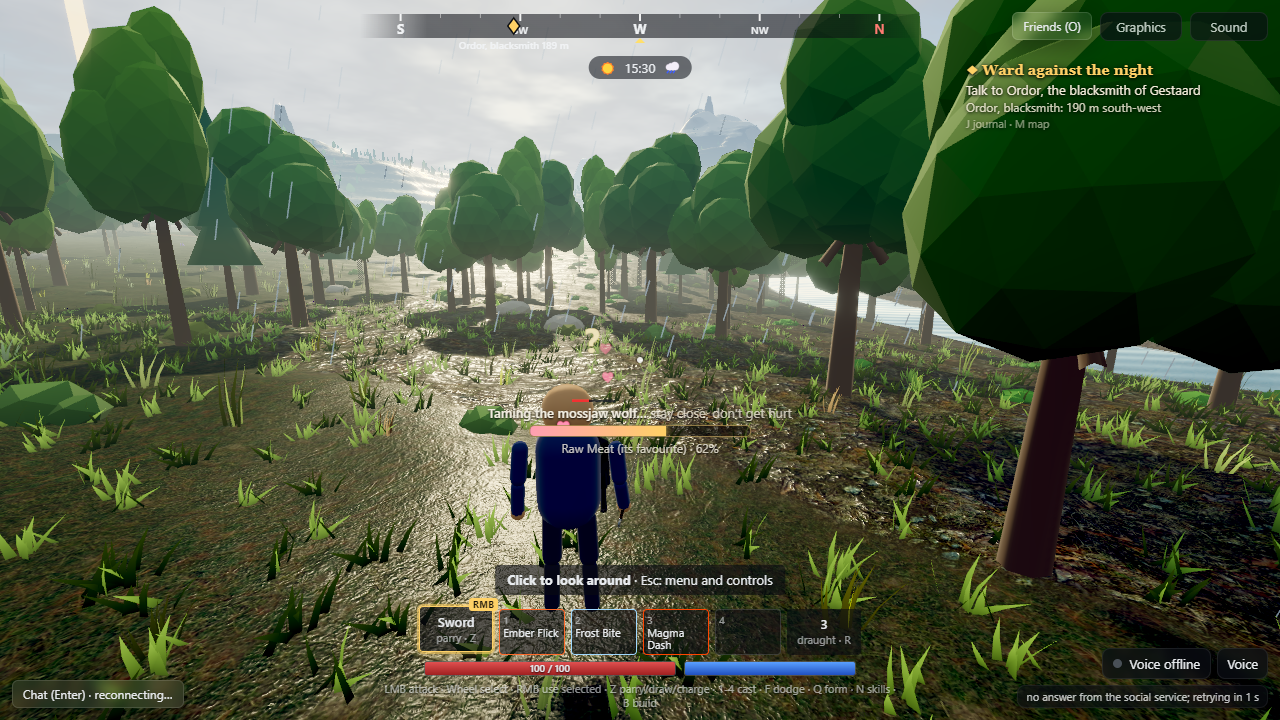
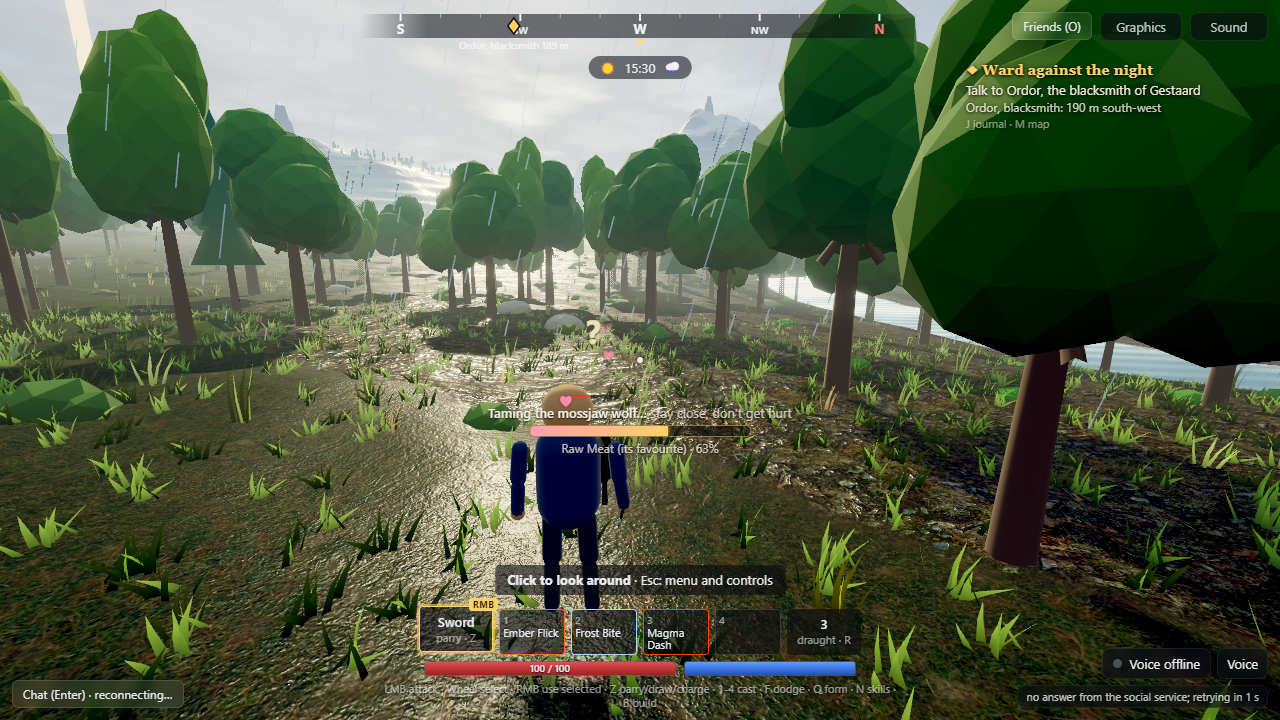
Pets: STATUS 'Playtest 2: pets', CR 029, READMEs, Postgres store test, bench evidence, final evidence shots

diff --git a/client/src/ui/pets/dev/pet-shots.ts b/client/src/ui/pets/dev/pet-shots.ts
@@ -245,7 +245,7 @@ async function main(): Promise<void> {
     {
       const at0 = await me();
       const pd = (await drawn()).find((d) => d.kind === 7);
-      if (pd) await page.evaluate((y) => (window as unknown as W).__lodestone.setLook(y, -0.3), lookAt(at0, pd) - 0.25);
+      if (pd) await page.evaluate((y) => (window as unknown as W).__lodestone.setLook(y, -0.3), lookAt(at0, pd) - 0.5);
     }
     await sleep(120);
     await page.screenshot({ path: shot('tamed') });

diff --git a/server/zone/internal/game/pets_store_test.go b/server/zone/internal/game/pets_store_test.go
@@ -1,0 +1,51 @@
+package game
+
+// character_pets on Postgres (migration 0029; scratch database from dbtest,
+// skipped without the local infra unless LODESTONE_REQUIRE_INFRA=1): round
+// trip, the epoch fence (an older owner's late save never wins), a missing
+// character row.
+
+import (
+	"context"
+	"errors"
+	"testing"
+
+	"lodestone/server/zone/internal/content"
+)
+
+func TestPGPetStoreRoundTripAndFence(t *testing.T) {
+	_, store, _, char := itemsDB(t)
+	ctx := context.Background()
+	if _, found, err := store.LoadPets(ctx, char); err != nil || found {
+		t.Fatalf("empty: found %v err %v", found, err)
+	}
+	st := &content.PetState{V: 1}
+	st.Add(content.PetRec{Species: "wolf", Name: "Fang", Level: 4, HP: 0.7, Element: -1})
+	st.Rolls = 3
+	if err := store.SavePets(ctx, char, st.JSON(), 5); err != nil {
+		t.Fatal(err)
+	}
+	old := &content.PetState{V: 1} // a previous owner's late, older save
+	if err := store.SavePets(ctx, char, old.JSON(), 4); err != nil {
+		t.Fatal(err)
+	}
+	b, found, err := store.LoadPets(ctx, char)
+	if err != nil || !found {
+		t.Fatal(err)
+	}
+	got := content.LoadPets(b)
+	if len(got.Pets) != 1 || got.Pets[0].Name != "Fang" || got.Pets[0].Level != 4 || got.Rolls != 3 || got.Active != 1 {
+		t.Fatalf("fence lost the newer save: %s", b)
+	}
+	st.Pets[0].Name = "Fang II"
+	if err := store.SavePets(ctx, char, st.JSON(), 0); err != nil { // unfenced single zone
+		t.Fatal(err)
+	}
+	b, _, _ = store.LoadPets(ctx, char)
+	if content.LoadPets(b).Pets[0].Name != "Fang II" {
+		t.Fatalf("epoch 0 save %s", b)
+	}
+	if err := store.SavePets(ctx, "00000000-0000-0000-0000-000000000001", st.JSON(), 0); !errors.Is(err, ErrNoRow) {
+		t.Fatalf("missing row: %v", err)
+	}
+}

diff --git a/docs/cr/029-pets.md b/docs/cr/029-pets.md
@@ -1,0 +1,73 @@
+# CR 029: taming and pet companions (playtest 2)
+
+Nicole, overnight: "all sorts of good shit" (Valheim and Breath of the Wild). This CR adds Valheim-style taming (weaken a creature, feed it its favourite food while it is calm) and pets that follow you, fight beside you, level up, have one ability each, wait in a stable, and are knocked out instead of killed. Data: `contracts/content.yaml` section `taming` (+ four feats, emote 25) → `npm run gen` → `server/pkg/contentdefs` (`Taming`) and the client's `CONTENT.taming`.
+
+## Tameable creatures
+
+Nine species, one per combat.yaml creature (the generator refuses demons and bosses, unknown foods and non-food items):
+
+| Species | Favourite food (others) | Meter | Chance | Health / bite (lv 1) | Ability |
+| --- | --- | --- | --- | --- | --- |
+| Dewdrop Slime | Heartleaf (apple, glowmoss) | 3 s | 95 % | 150 / 6 | **Soothing Ooze** (heal: you below 70 %: 12 % of your health, and itself) |
+| Mossback Slime | Glowmoss (heartleaf) | 3.5 s | 90 % | 170 / 6 | **Mossbloom** (heal: you and your party near you below 80 %) |
+| Thornback boar | Apple (berry tart, emberroot) | 5 s | 80 % | 170 / 10 | **Tusk Charge** (a rush at a foe 4-12 m away: 2x and a stun) |
+| Mossjaw wolf | Raw meat (grilled meat) | 6 s | 75 % | 130 / 11 | **Rallying Howl** (buff: your damage +15 % for 8 s when a fight starts) |
+| Crag ram | Frostcap (heartleaf, bread) | 5 s | 80 % | 180 / 10 | **Headlong** (1.8x and a knockback) |
+| Rime stalker | Frostgill char (speckled trout, raw meat) | 7 s | 65 % | 140 / 10 | **Frost Breath** (1.4x ice on the target and everything within 3 m, slowed) |
+| Bog lurker | Mudback carp (bog pike, reed perch) | 6 s | 70 % | 190 / 8 | **Mire** (0.8x earth within 4 m, slowed) |
+| Dust scuttler | Raw meat (silverfin) | 5 s | 75 % | 130 / 10 | **Venom Sting** (1.3x and a curse: +20 % damage taken) |
+| Glintfox | Berry tart (silverfin, cheese) | 8 s | 50 % | 110 / 7 | **Dazzle** (a stun) |
+
+The meter is `tameS` x `favouriteMult` (0.6) with the favourite; the chance gets `favouriteBonus` (+15 %, at most 99 %). Every species uses its creature's model and codex entry; the bestiary (J) says whether a creature is tameable, its foods and its ability.
+
+## Taming (server-authoritative)
+
+1. **Weaken**: a tameable creature hurt below `weakenPct` (50 %) of its health is reported by the combat world (`PetOutputs.Weakened`, only when content is on). If the player who hurt it (or whose pet bit it), or anyone within `smellM` (14 m), carries one of its foods, it **calms** for `calmS` (30 s): it stands, turns to the nearest player and sniffs; enemies' AI skips it, pets leave it alone. Event 1201 to players within 48 m (a "?" over it). A hit breaks the calm (it fights on); a calm that runs out ends the same way; once ended it can't calm again for 10 s.
+2. **Feed**: E within `feedReachM` (4 m + its radius) → Interact 130/1. The zone spends one food it likes (the favourite first), starts the **meter** (Event 1202 phase 1 to the tamer and players near) and keeps the calm going. One tamer per creature.
+3. **Hold**: the meter is interrupted (1202 phase 2 with the reason) when the tamer walks off beyond `stayM` (8 m: it startles and turns on you), is hurt (the same), goes down, leaves, the creature is hurt, or its calm ends.
+4. **Roll** (`content.RollTame`, deterministic in the world seed, the character, the character's persisted roll count, the creature's entity id and the food): tamed (1202 phase 3: the creature leaves the world like a corpse, no XP or loot, its group cleared quietly; a pet record is added) or it snatches the food and fights on (phase 4). A tamed creature is **shiny** with `shinyChance` (3 %: gold-touched, +10 % health and damage) or **elemental** with `elementalChance` (8 %: takes the region's element, its bite and strike ability carry it, +5 %). The pet starts at the creature's level, capped by yours.
+
+## Pets
+
+- **One out, the rest in the stable** (`maxPets` 6). The first tamed is the one out; later ones go to the stable (a note). At a **stable** (within `stableM`, 24 m, of one of your camp pieces, CR 025, or in any town; a world with neither has no stables: anywhere) the panel takes one out (the one out goes in), sends the one out to the stable, or releases one (anywhere).
+- **In the world** the pet is an Enemy with an ally record on the CR 020 summon machinery (`allyStrike`, `allyHit`, the enemies' steering), kept out of the enemy tables, drawn as EntityKind effect with typeId bit 15 (`combat.PetTypeID`: bits 0-7 the creature, 8-11 element + 1, bit 12 shiny), named "Owner's Name", level in `EntityRecord.level`, real health %. It follows a spot behind your shoulder (faster the farther it is; beyond `warpM` 60 m, e.g. a fast travel, it is set down beside you), joins fights that are already on (never wakes a sleeping or idle creature; creatures fighting you or it first), bites (`attack` reach/everyMs/windupMs, damage x (1 + `damagePerLevel` x (level - 1))), uses its ability on its cooldown, regenerates `regenPctS` out of a fight.
+- **Commands** (Interact 130/2): follow, stay (holds the spot, guards `stayGuardM`), attack a creature (`targetId`), come here (at once). Keys: **6** tapped sends it at the creature under the crosshair (nothing there: it heels); **6** held opens the pet wheel (attack, follow, stay, come here, pet, feed); **7** toggles stay / follow; **E** beside it pets it (emote 25, others see the crouch and hearts; one per 1.5 s). Feeding (wheel / panel; a food it likes, else any food) heals `feedHealPct`. Every letter is bound already (U is CR 028's instruments, 5 the whistle); the pet keys stand aside while you play an instrument.
+- **Enemies fight back**: a pet's bites build `petThreat` on the creature (x1.6); while it beats the threat of the player the creature chases, the creature turns on the pet (`chasePet`, serial AI, winding up on the pet's position); enemy strikes and projectiles hit pets in their area (no dodges).
+- **Knocked out, not dead**: at 0 health the pet is removed (Event 1205 act 4, a note), its record recovers at home for `koRecoverS` (150 s), then it comes back to you (if it is still the one out). The panel shows the recovery clock.
+- **Levels**: the creature a pet bit last gives it its kill XP when it falls (`PetOutputs.XP`); `xpBase` 40 to level 2, x`xpGrowth` 1.3 per level, `levelMax` 20; health +12 % and bite +8 % per level; a level-up heals it a quarter and updates the live pet.
+
+## Wire (cheap, event driven)
+
+- Events **1200-1205** (range 1200-1219; 1206-1219 reserved; contracts/events.md): 1200 `pet_sync` (to you on join only if you have pets, on change, and when you step in or out of a stable: checked once a second for players with pets), 1201 `tame_calm`, 1202 `tame_progress`, 1203 `pet_refused`, 1204 `pet_note`, 1205 `pet_act` (players within 48 m). **Interact 130** `pet` (1 feed, 2 command, 3 pet, 4 feed your pet, 5 name chunks, 6 take out, 7 stable, 8 release, 9 sync, 10 dev).
+- Pets are ordinary snapshot entities (budget: one per player with one out); their bites are Event 225 with `value` 0 (no spell).
+- `LODESTONE_WIRE_DIGEST=1`: **identical** to main (p90_e600 `831bb7f4...`, p300_e2000 `8c29d408...`): taming is off in atlas-less worlds and bots own no pets. `BenchmarkScale/p300_e2000` (4 runs each): 86.2-88.5 vs 86.9-89.0 M cycles/tick, 133.8-134.7 vs 134.0-134.6 kbps/client, p99 3.8-4.2 vs 4.0-4.4 ms (noise; `docs/evidence/pt2-pets-bench.txt`).
+
+## Persistence
+
+Migration **0029** `character_pets` (character_id PK, data jsonb, epoch, updated_at; epoch-fenced like 0025): the `content.PetState` JSON (pets: id, species, name, variant, element, level, XP, health share, knockout end, tamed at, kills; the active pet, the next id, the roll count, the command mode). Written through the write-behind queue on every change (and the pet's health every 8 s while it is out). Local profiles keep the same JSON in the save blob's optional `pets` (`localsave.State.Pets`). WP16: a handoff field `pets` carries the state (with the pet's current health); the next zone puts the pet out beside you. The feats' counters (tamed, kinds tamed, shinies) live in the content state (`content.State.TamedKinds`, stats).
+
+## Achievements and What's new
+
+Feats (content.yaml): **Beast Friend** (tame your first creature), **Keeper of Beasts** (tame every kind: 9, title), **Glimmerfriend** (tame a shiny, title), **Packleader** (raise a pet to level 10, title; stat `petlevel` is the glue's: your best pet's level). What's new: `pt2-pets` ("Taming and pet companions").
+
+## Client
+
+`client/src/ui/pets` (README there): the store and decoders, the prompts ("[E] Feed Raw Meat to the mossjaw wolf · its favourite!", "It sniffs at you. It wants: ..."), the meter under the crosshair, the pet card (name, level, health, follow/stay), the pet wheel, the pet panel (Character (C) → Your pets: every pet with its level, variant, health, bite, XP, kills, favourite food, ability, rename, stable / take out, feed, stay, release; the stable indicator; how to tame when you have none), in-world effects (`PetLayer`). Models: `combat/enemies/spec.ts` `petSpec` + `models.ts` `collar` (a red collar with a gold tag; gold for a shiny; a ribbon on a slime), friendlier tint, no glowing eyes, green health bar, warm nameplate. The bestiary's `TameRow`. The petting pose (`avatarAnim.ts` emote 25).
+
+## Tests
+
+Go: `server/zone/internal/content/pets_test.go` (the roll deterministic and moved by the world, the character and the roll count; odds and variants near content.yaml over 20,000 rolls; an elemental takes the region's element; the favourite is faster and likelier; stats by level and variant; XP to the cap; the stable's size, ids never reused, release; JSON round trip; the tamed feats), `internal/combat/pets_test.go` (follows and warps after a fast travel, one per owner, gone when the owner leaves; never starts a fight with an idle creature; joins one, bites it down and earns the XP; the creature turns on the pet and knocks it out (reported, removed, the creature lets go); stay holds its spot; an attack order; the howl buff, the mend heal, the charge's stun; taming off reports nothing; a weakened tameable is reported once below the share; a calm creature never moves or strikes, pets leave it alone, a hit breaks the calm, Tame removes it without XP or a kill, a calm runs out), `internal/game/pets_test.go` on the official world (no food: no calm; with the favourite food a dev-weakened slime calms; feeding out of reach refused; the meter and the roll (retried if a roll fails); the pet out in the snapshot with the pet bit and "Ash's ..."; saved; a wolf's meter walked away from is interrupted and the wolf turns on you; stay / follow; no stable in the wild; a knockout sends it home and it comes back only after the recovery; the stable in a town; rename saved; a restart brings it back out; the handoff field). Vitest `client/src/ui/pets/pets.test.ts` (1200-1205 decoders and the reducer: sync, calm, the meter to tamed / interrupted / failed, refusals, notes, acts; the numbers match content.yaml; name chunks; the crosshair pick; every species builds as a pet with a collar, plain and shiny, within budget).
+
+## Evidence
+
+`cd client && npx vite-node src/ui/pets/dev/pet-shots.ts` (the real client and zone on the official world, one headless browser): `docs/evidence/pt2-pets-calm.png` (a dev-weakened wolf calmed, "?" over it, the feed prompt), `-taming.png` (the meter at ~60 %, hearts), `-tamed.png` (a shiny wolf tamed: the burst, the feats Beast Friend and Glimmerfriend), `-follow.png` (Fang following), `-fight.png` (Fang biting a bandit beside you, a telegraph), `-wheel.png` (the pet wheel), `-panel.png` (the pet panel), `pt2-pets-shots.txt`.
+
+## Not covered
+
+- Pets don't fight players (no PvP pets) and players can't hurt pets; pets take no statuses.
+- Only one pet out; no breeding, saddles, or riding pets; no pet inventory.
+- A pet walks through trees and boulders without player collision (as enemies do); in caves it follows by warping when it falls behind.
+- Pets don't cross a zone border on their own: the handoff carries them with you (the next zone sets yours down beside you).
+- No pet sounds yet.
+- An account upgrade from a local profile does not copy `pets` (like the content state).
+- Numbers and names are proposals (content.yaml `taming`).

diff --git a/docs/STATUS.md b/docs/STATUS.md
@@ -1373,3 +1373,21 @@ Evidence (`node tools/playtest/stack.mjs --zone-env LODESTONE_ZONE_DEV_SPAWN=1`,
 Known gaps: notes are relayed as played, so a hostile client can play any note in range up to the rate (no worse than chat). A zone border (WP16) isn't heard across, and a handoff picks the instrument up again once. Remote notes arrive about 45 ms + the path's latency late. The townsfolk applaud with their single-box arms. Names, numbers and tunings are proposals (`contracts/content.yaml instruments`).
 
 Shared files touched (small): `server/zone/internal/game/{server,session,content}.go` (tick, leave, the Interact 120 bucket and dispatch, instrument wares), `client/src/audio/{acoustics,bridge,engine}.ts` (the instrument duck), `client/src/net/{avatar,avatarAnim,RemotePlayers}.ts(x)`, `client/src/scene/{LocalAvatar,GameCanvas,FirstPersonArms}.tsx`, `client/src/combat/weapons/FirstPersonWeapon.tsx`, `client/src/state/live.ts` (`fpInstrument`), `client/src/world/buildings/npcs.ts` (applause), `client/src/ui/inventory/{InventoryScreen,ItemIcon}.tsx`, `client/src/ui/menu/controls.ts`, `client/src/screens/PlayScreen.tsx`, `contracts/{items.yaml,content.yaml,events.md,codegen/lib/{items,content}.mjs}`, `server/pkg/contentdefs/contentdefs.go`, `client/src/ui/whatsnew/changelog.json`.
+
+## Playtest 2: pets ✅ (branch `pt2/pets`)
+
+Nicole: "all sorts of good shit" (Valheim and Breath of the Wild). **Taming and pet companions.** CR 029 (`docs/cr/029-pets.md`). Data: `contracts/content.yaml` section `taming` (9 species, 9 abilities, every number), four feats, emote 25 → `npm run gen`. Events **1200-1205** (new range 1200-1219), Interact **130** `pet`, migration **0029** `character_pets` (run `npm run migrate`), local saves `pets`, a handoff field `pets`. Docs: `client/src/ui/pets/README.md`, `server/zone/README.md` "Pets", `contracts/events.md` (incl. "Pets" entities).
+
+- **Taming** (Valheim feel, server-authoritative): carry a food a creature likes and weaken it below half its health: it stops fighting and sniffs the air (30 s; a "?" over it); **E** feeds it (the favourite first: faster and likelier) and the **taming meter** fills (3-8 s by species) while you stay within 8 m and nothing hurts it or you (walk off or get hit and it startles and turns on you). Then the zone's deterministic roll (world seed, character, the character's roll count, the creature): tamed, or it snatches the food and fights on. **Shiny** (3 %: gold, +10 %) and **elemental** (8 %: the region's element) variants. Tameable: Dewdrop and Mossback slimes, Thornback boar, Mossjaw wolf, Crag ram, Rime stalker, Bog lurker, Dust scuttler and the Glintfox (never demons or bosses; foods from foraging, fishing, cooking and the stores).
+- **Pets** (on the CR 020 summon machinery, but persistent): one follows you (the rest wait in your **stable**: within 24 m of one of your camp pieces or in any town), joins fights that are already on (never starts one), bites, uses its **ability** (Soothing Ooze and Mossbloom heal you / your party, Rallying Howl +15 % damage, Tusk Charge, Headlong, Frost Breath, Mire, Venom Sting, Dazzle), **levels** from the creatures it helps defeat (to 20; +12 % health, +8 % bite a level), regenerates out of a fight, catches up at once after a fast travel. Enemies turn on it when its bites out-threat you and their strikes and shots hit it; at 0 health it is **knocked out**, limps home to recover (2.5 min), then comes back to you.
+- **Keys** (every letter is bound; U is CR 028's instruments): **6** tapped sends your pet at what the crosshair is on (nothing: heel); **6** held: the pet wheel (attack, follow, stay, come here, pet, feed); **7** stay / follow; **E** feeds a calm creature, else pets your pet (an emote others see, hearts). They stand aside while you play an instrument. All in the Esc menu's Controls ("Taming and pets"; menu.test.ts checks them).
+- **Client**: pets are the enemy models (`combat/enemies/spec.ts` `petSpec`) with a friendlier tint, no glowing eyes, a red collar and a gold tag (`models.ts` `collar`; gold for a shiny, a ribbon on a slime), a green health bar and a warm "Owner's Name" nameplate; the prompts, the meter, a pet card (name, level, health, follow/stay), the wheel, in-world moments (`PetLayer`: the "?", hearts, the tame's burst, ability rings), the **pet panel** (Character (C) → Your pets: every pet's level, variant, health, bite, XP, kills, favourite food, ability; rename, take out / stable at a stable, feed, stay, release; how to tame), the bestiary says which creatures are tameable, with what, and their ability. Feats: **Beast Friend**, **Keeper of Beasts** (all 9), **Glimmerfriend** (a shiny), **Packleader** (a pet at level 10). What's new: `pt2-pets`.
+- **Network**: a pet is an ordinary snapshot entity (EntityKind effect, typeId bit 15; one per player with one out); Events go to owners, tamers and players within 48 m. Taming is off in atlas-less worlds and bots own no pets: `LODESTONE_WIRE_DIGEST=1` **identical** after merging main (p90_e600 `831bb7f4...`, p300_e2000 `8c29d408...`). `BenchmarkScale/p300_e2000` (4 runs each): 86.2-88.5 vs 86.9-89.0 M cycles/tick, 133.8-134.7 vs 134.0-134.6 kbps/client, p99 3.8-4.2 vs 4.0-4.4 ms: noise (`docs/evidence/pt2-pets-bench.txt`).
+
+Tests: Go `server/zone/internal/content/pets_test.go` (the roll deterministic and moved by world, character and roll count; odds and variants over 20,000 rolls; elemental takes the region's element; favourite faster and likelier; stats, XP to the cap, the stable's size, ids, release, JSON; the tamed feats), `internal/combat/pets_test.go` (follow and warp, one per owner, gone with the owner; never starts a fight; joins one, bites it down, earns the XP; the creature turns on it and knocks it out; stay; an attack order; howl, mend, the charge's stun; a weakened tameable reported once, a calm creature never moves or strikes, pets leave it alone, a hit breaks the calm, Tame without XP, a calm runs out), `internal/game/pets_test.go` on the official world (no food no calm; a dev-weakened slime calms for its food's carrier; out of reach refused; meter and roll; the pet in the snapshot with the pet bit and "Ash's ..."; saved; a walked-away meter interrupted, the wolf turns on you; stay / follow; no stable in the wild; knockout home and back only after the recovery; the stable in town; rename saved; a restart brings it out; the handoff field), `pets_store_test.go` (Postgres: round trip, epoch fence, missing row). Vitest `client/src/ui/pets/pets.test.ts` (decoders and reducer from calm to tamed / interrupted / failed, notes, acts; the numbers match content.yaml; name chunks; the crosshair pick; every species as a pet with a collar, plain and shiny, within budget). Full suites after merging main (instruments, CR 028): gen:check, `npm run migrate` (applied 0029 on the dev DB), go vet and go test for every Go module (all ok, the game package 392 s), client typecheck (`npm run typecheck` fails only in `tools/creator` in a worktree: ajv, as before), `eslint .`, `npx vitest run` (76 files, 732 tests), contracts and worldgen vitest, whatsnew check, test:golden PASS (wp01 evidence restored), `LODESTONE_WIRE_DIGEST=1` identical.
+
+Evidence (`cd client && npx vite-node src/ui/pets/dev/pet-shots.ts`: the real client and zone on the official world, one headless browser, a dev-weakened wolf and a dev bandit camp; `docs/evidence/pt2-pets-shots.txt`): `pt2-pets-calm.png` (the calm wolf, "?" over it, "[E] Feed Raw Meat to the mossjaw wolf · its favourite!"), `-taming.png` (the meter at 62 %, hearts), `-tamed.png` (the burst, Beast Friend), `-follow.png` (Fang trotting after you), `-fight.png` (Fang biting a bandit beside you, sent there with 6), `-wheel.png` (the pet wheel), `-panel.png` (the pet panel at level 5: Rallying Howl, favourite food, XP).
+
+Known gaps: pets never fight players and players can't hurt them; pets take no statuses; one pet out, no saddles or riding pets; pets walk through trees and boulders (as enemies do) and follow into caves by warping; no pet sounds; the account upgrade doesn't copy `pets`; names and numbers are proposals (`contracts/content.yaml taming`).
+
+Shared files touched (small): `server/zone/internal/combat/{ai,enemy,par,player,summon,validate,world}.go` (hooks: pet targeting `chasePet` / `windupAt`, strikes and shots on pets, the calm in `think`, weakened and calm-break in `applyDamage`, pet XP in `kill`, the howl in `damageOf`, `stepPets`), `server/zone/internal/content/state.go` (`TamedKinds`, stats), `server/zone/internal/game/{server,session,combat,content,explore}.go` (tick, join, leave, Interact 130, the pet's nameplate, feat stat `petlevel`, local saves), `server/pkg/{contentdefs/contentdefs.go,localsave/state.go}`, `contracts/{content.yaml,events.md,codegen/lib/content.mjs}`, client `combat/{CombatLayer.tsx,enemies/{spec,models,renderer}.ts}`, `net/{NetPlay.tsx,avatarAnim.ts}`, `screens/PlayScreen.tsx`, `ui/{content/JournalTabs.tsx,menu/controls.ts,progression/ProgressionHud.tsx,whatsnew/changelog.json}`.

diff --git a/server/zone/README.md b/server/zone/README.md
@@ -893,3 +893,31 @@ night hooks, WP16 `campset`), `camps_chest.go` (storage chests through the item 
   and spells work. Validation: mounted speeds only while mounted (`movement.MaxHorizontalSpeed`).
 - Wire: player typeId bit 14 (`TypeRiding`) while riding; Events 1140-1143 (your steed; steeds within `STEED_SEE_M` on
   change and to newcomers every 2 s; refusals; thrown). Nothing is sent while nobody has a steed (wire digest unchanged).
+
+## Pets (playtest 2, CR 029)
+
+`internal/game/pets.go` (the glue), `internal/combat/pets.go` (the companion in the combat world), `internal/content/pets.go`
+(records, the taming roll, levels and stats; pure). `docs/cr/029-pets.md`; data: `contracts/content.yaml` `taming`.
+
+- Taming: the combat world reports a tameable creature (`World.Tameable`, set only when content is on) hurt below
+  `taming.weakenPct` (`PetOutputs.Weakened`); if the player who hurt it, or anyone within `smellM`, carries a food it likes,
+  `World.Calm` stops it (it stands and sniffs; a hit breaks it: `CalmBroken`) and Event 1201 tells players near. Interact
+  130/1 feeds it (one food spent, the favourite first) and starts the meter (1202); `tameTick` interrupts it when the tamer
+  walks off (`stayM`), is hurt, goes down, or the calm ends; at the end `content.RollTame` (world seed, character, roll count,
+  creature) decides: `World.Tame` removes the creature (no XP, no loot, its group quietly cleared) and the pet is added (the
+  active one when none is out), or it fights on.
+- The pet out is an Enemy with an ally record (the CR 020 summon machinery: `allyStrike` / `allyHit`, `moveToward`) kept in
+  `World.pets` and `summonIdx` (so the host mirrors it as EntityKind effect, `combat.PetTypeID`, named "Owner's Name").
+  `petThink`: follow (a spot behind its owner, catching up faster the farther it is; beyond `warpM` it is set down beside
+  you), stay (holds its spot, guards `stayGuardM`), an attack order (Interact 130/2); it only joins fights (never wakes a
+  sleeping or idle creature), uses its ability (heal, buff, charge, strike) and regenerates out of a fight.
+- Enemies: a pet's bites build `petThreat`; while it beats the player threat the creature chases the pet (`chasePet`, a
+  serial-AI path, `windupAt`), and enemy strikes (`strikePets`) and shots (`shotHitsPet`) hit pets in their area. At 0 health
+  the pet is knocked out (`PetOutputs.KO`): removed, its record recovers at home for `koRecoverS`, then it comes back to you.
+  The creature a pet bit last gives it XP when it falls (`PetOutputs.XP`; `content.PetRec.GainXP`, stats `content.PetStats`).
+- Persistence: one JSON per character (`PetStore`: `character_pets`, migration 0029, epoch-fenced; local saves `pets`),
+  a handoff field `pets` (the next zone puts the pet out beside you). Stables: within `stableM` of one of your camp pieces,
+  or in a town (anywhere in a world with neither).
+- Wire: pets are ordinary snapshot entities (one per player with one out); Events 1200-1205 go to pet owners, tamers and
+  players within 48 m of a calm creature or a pet's act. The scale world has no content, so `LODESTONE_WIRE_DIGEST=1` is
+  unchanged.

diff --git a/client/src/ui/pets/README.md b/client/src/ui/pets/README.md
@@ -1,0 +1,17 @@
+# Taming and pets (playtest 2, CR 029)
+
+`docs/cr/029-pets.md` is the contract; the zone is `server/zone/internal/game/pets.go`.
+
+| File | What |
+| --- | --- |
+| `events.ts` | Events 1200-1205 decoders, Interact 130 actions and commands, refusal and interruption texts, the numbers the zone uses (meter time, XP curve, stats, liked food), the crosshair pick for "attack that" (`pickAlong`), the pet wheel's sectors, name chunks |
+| `store.ts` | `reducePetEvent` (pure): your pets (1200), calm creatures (1201), the taming meter and the tame (1202), notes (1203, 1204), recent acts (1205) |
+| `link.ts` | hooks the live session (`ensurePetHook`, called by NetPlay before Hello and by the HUD on a timer) |
+| `PetHud.tsx` | keys (6 tap: attack the aimed creature or heel; 6 held: the pet wheel; 7: stay / follow; E: feed a calm creature, else pet your pet), the prompts, the meter, the pet card, notes, the pet panel (Character → Your pets) |
+| `PetLayer.tsx` | in the world: a "?" over calm creatures, hearts while feeding, the tame's burst, petting hearts, ability rings |
+| `dev/pet-shots.ts` | evidence: `cd client && npx vite-node src/ui/pets/dev/pet-shots.ts` (one zone, one Vite, one browser) |
+
+The pet itself is drawn by the enemy renderer: `combat/enemies/spec.ts` `petSpec` (EntityKind effect with typeId bit 15:
+the creature's model, a friendlier tint, a collar from `models.ts`, gold for a shiny, the element's accent and ring for an
+elemental), green health bar, a warm nameplate ("Owner's Name"). The bestiary (`ui/content/JournalTabs.tsx` `TameRow`) says
+which creatures can be tamed, with what, and the pet's ability. The petting pose is emote 25 (`net/avatarAnim.ts`).
